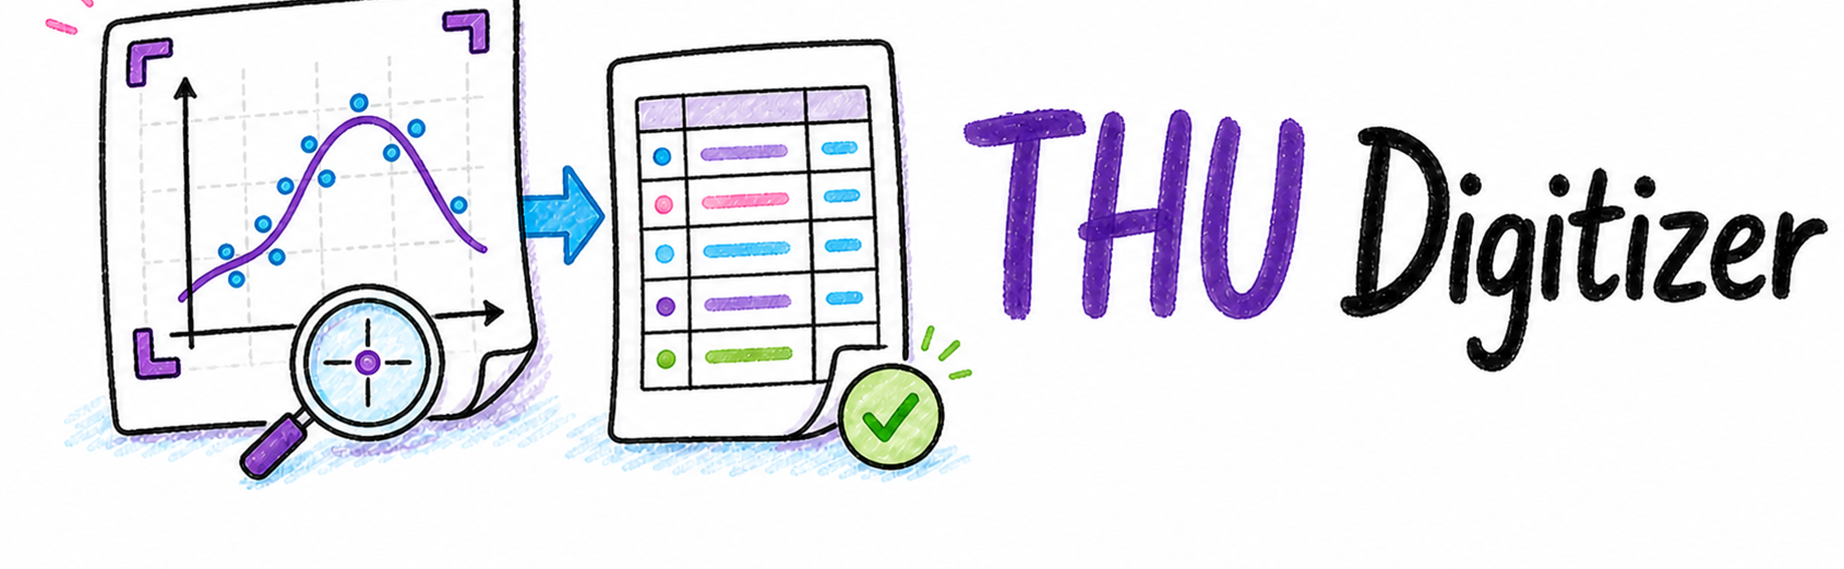
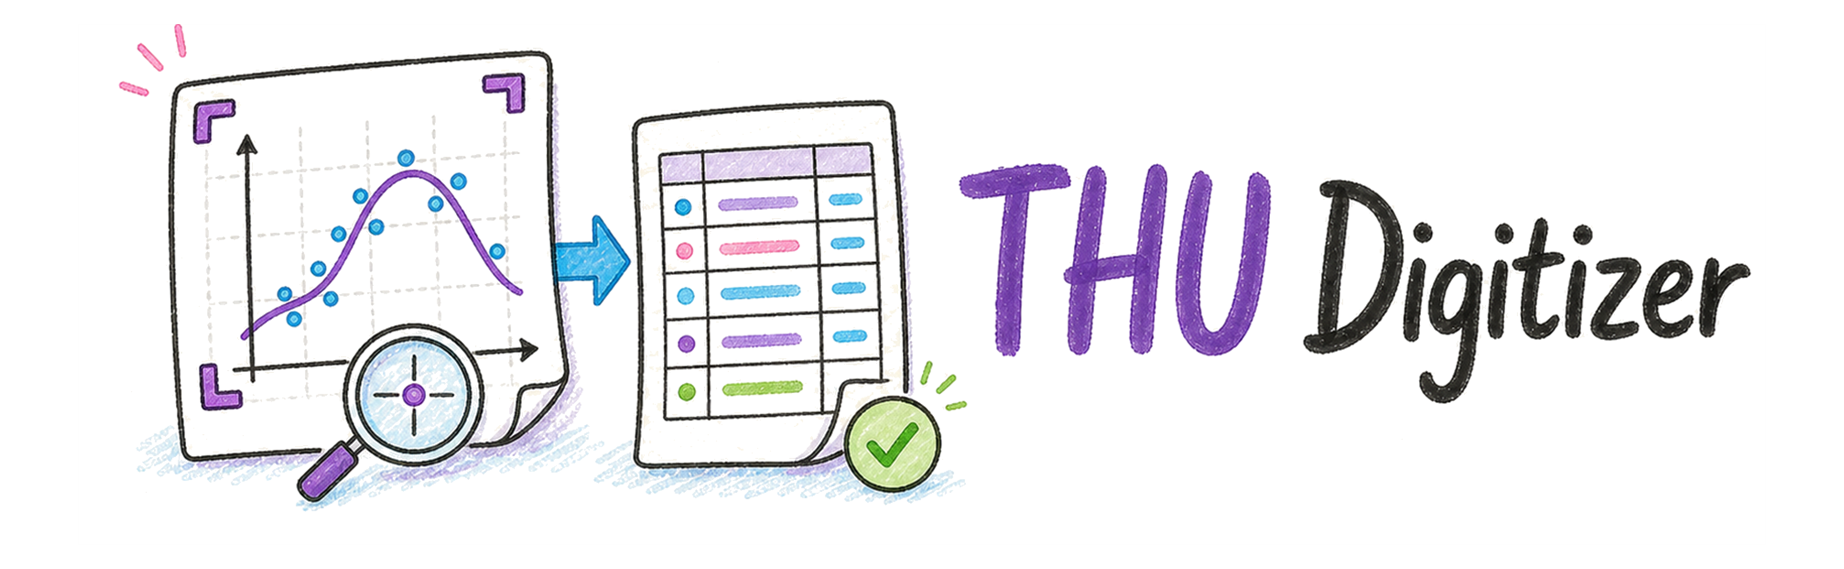
Add MIT license and fix hero framing
Add the standard MIT License, document it in the README, and replace the cropped hero with a full-fit pure-white version.

Changed region(s): [[0.0, 0.0, 1.0, 0.8963]]

diff --git a/README.md b/README.md
@@ -6,6 +6,7 @@
   <img alt="Input" src="https://img.shields.io/badge/Input-chart_images_%2B_PDF-6F42A1?style=for-the-badge">
   <img alt="Output" src="https://img.shields.io/badge/Output-CSV_%2B_JSON_%2B_overlay-25A9E0?style=for-the-badge">
   <img alt="Workflow" src="https://img.shields.io/badge/Workflow-local_%2B_auditable-39A96B?style=for-the-badge">
+  <img alt="License MIT" src="https://img.shields.io/badge/License-MIT-FF6699?style=for-the-badge">
 </p>
 
 # THU Digitizer
@@ -183,3 +184,7 @@ THU Digitizer 的研究基线和实现受这些工具与生态启发或支持：
 - [PyMuPDF](https://pymupdf.readthedocs.io/)：PDF 页面与矢量对象检查。
 - [NumPy](https://numpy.org/)、[Pillow](https://python-pillow.org/)、[Matplotlib](https://matplotlib.org/)、[SciPy](https://scipy.org/) 和 [OpenCV](https://opencv.org/)：本地几何处理、统计验证和证据可视化。
 - 画廊中的开放获取论文与作者公开源数据；具体来源、许可和用途记录在各案例及 [`gallery/ATTRIBUTION.md`](gallery/ATTRIBUTION.md) 中。
+
+## 许可证
+
+本项目使用 [MIT License](LICENSE)。
